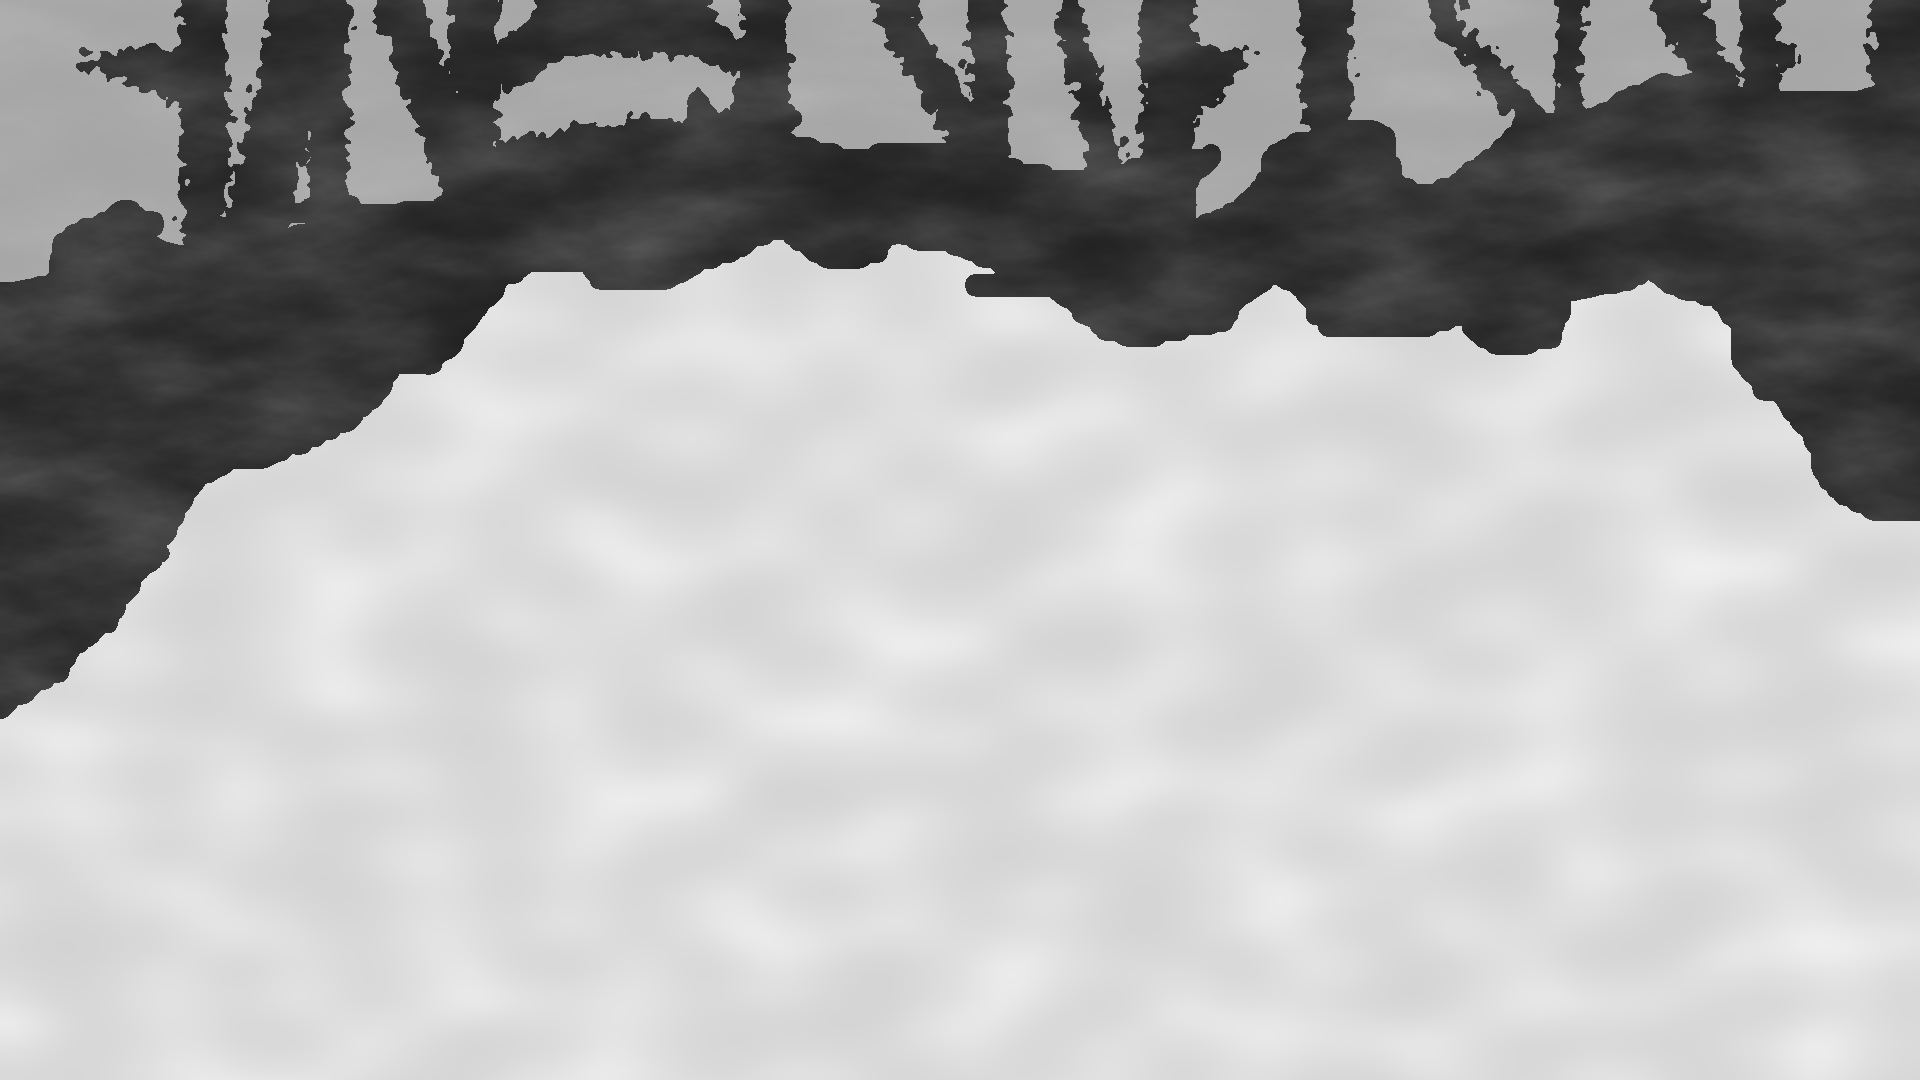
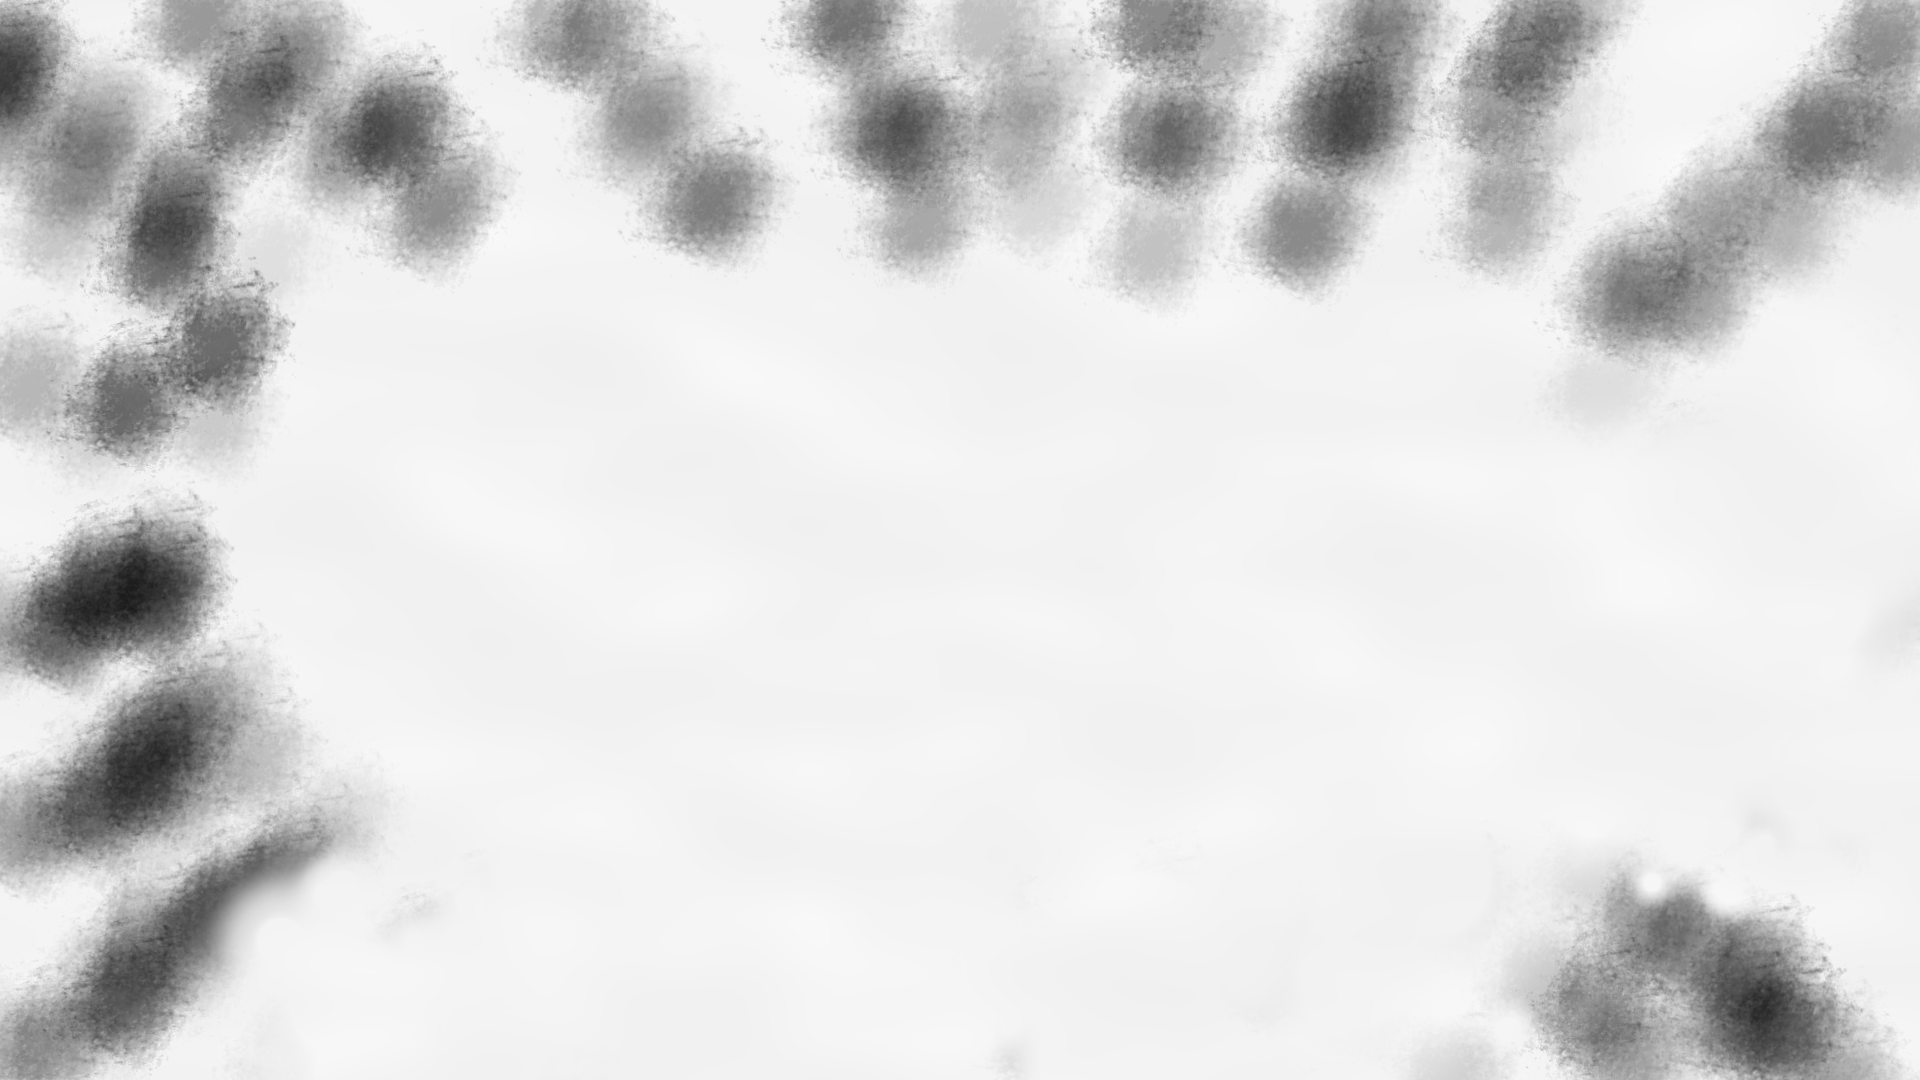
Jill valentine

diff --git a/src/views/jeu/Jillvalentine2.vue b/src/views/jeu/Jillvalentine2.vue
@@ -1,10 +1,44 @@
 <script setup>
 import { inject, ref, provide } from "vue";
 import Poppy from "../Poppy.vue";
+import Pnj from "../Pnj.vue";
 
-const pnjMouvement = inject("pnjMouvement");
-const pnjPos = inject("pnjPos");
-const spriteLink = inject("spriteLink");
+const room0 = inject("room0");
+const room1 = inject("room1");
+const room2 = inject("room2");
+const room3 = inject("room3");
+const room4 = inject("room4");
+const room0SpawnPos = inject("room0SpawnPos");
+const room0SpawnDir = inject("room0SpawnDir");
+room0SpawnPos.value = [0, 5];
+room0SpawnDir.value = "hautbas";
+const bg = ref(
+  `url('${new URL("../../assets/Jeu/jillvalentine/2/bg.png", import.meta.url).href}')`,
+);
+
+const sortie = ref({
+  gauche: { positions: [], link: `` },
+  droite: { positions: [], link: `` },
+  haut: { positions: [], link: `` },
+  bas: {
+    positions: [
+      [5, 2],
+      [5, 3],
+      [5, 4],
+      [5, 5],
+      [5, 6],
+      [5, 7],
+      [5, 8],
+      [5, 9],
+    ],
+    link: `/m2`,
+  },
+});
+
+room0.value = true;
+
+const spritePnj = ref("secte/haut/hautbas.svg");
+
 const peuxBouger = ref(false);
 provide("peuxBouger", peuxBouger);
 
@@ -14,44 +48,73 @@ async function attendre(dure) {
     peuxBouger.value = true;
   }, dure);
 }
+const event1Declanche = ref(false);
+const cligoteurVisible = ref(false);
+
+if (room4.value) {
+  event1Declanche.value = true;
+  bg.value = `url('${new URL("../../assets/Jeu/jillvalentine/2bis/bg.png", import.meta.url).href}')`;
+  spritePnj.value = "secte/mort/pnj4.png";
+  if (room0.value && room1.value && room2.value && room3.value && room4.value) {
+    sortie.value = {
+      gauche: { positions: [], link: `` },
+      droite: {
+        positions: [
+          [1, 11],
+          [2, 11],
+          [3, 11],
+          [4, 11],
+          [5, 11],
+        ],
+        link: `/memento`,
+      },
+      haut: { positions: [], link: `` },
+      bas: { positions: [], link: `` },
+    };
+  }
+}
+
 peuxBouger.value = true;
+
+function event1() {
+  event1Declanche.value = true;
+  attendre(0.8);
+  setTimeout(() => {
+    bg.value = `url('${new URL("../../assets/Jeu/jillvalentine/2bis/bg.png", import.meta.url).href}')`;
+    spritePnj.value = "secte/mort/pnj4.png";
+  }, 100);
+  cligoteurVisible.value = true;
+  setTimeout(() => {
+    cligoteurVisible.value = false;
+  }, 800);
+  room4.value = true;
+  if (room0.value && room1.value && room2.value && room3.value && room4.value) {
+    sortie.value = {
+      gauche: { positions: [], link: `` },
+      droite: {
+        positions: [
+          [1, 11],
+          [2, 11],
+          [3, 11],
+          [4, 11],
+          [5, 11],
+        ],
+        link: `/memento`,
+      },
+      haut: { positions: [], link: `` },
+      bas: { positions: [], link: `` },
+    };
+  }
+}
 </script>
 
 <template>
-  <section>
-    <img src="../../assets/Jeu/jillvalentine/2/fg.png" id="fg" />
+  <section :style="{ backgroundImage: bg }">
     <Poppy
       :spawn="[5, 5]"
-      :sprite-type="2"
-      :sprite-sens="'droite'"
-      :tp="{
-        gauche: {
-          positions: [],
-          link: ``,
-        },
-        droite: {
-          positions: [
-            [1, 11],
-            [2, 11],
-            [3, 11],
-            [4, 11],
-          ],
-          link: `/memento`,
-        },
-        haut: { positions: [], link: `` },
-        bas: {
-          positions: [
-            [5, 4],
-            [5, 5],
-            [5, 6],
-            [5, 7],
-            [5, 8],
-            [5, 9],
-            [5, 10],
-          ],
-          link: `/m2`,
-        },
-      }"
+      :sprite-type="1"
+      :sprite-sens="'hauthaut'"
+      :tp="sortie"
       :interdis="[
         [0, 0],
         [0, 1],
@@ -66,29 +129,80 @@ peuxBouger.value = true;
         [0, 10],
         [0, 11],
         [1, 0],
-        [1, 1],
-        [1, 2],
-        [1, 11],
         [2, 0],
+        [3, 0],
+        [4, 0],
+        [5, 0],
+        [1, 1],
         [2, 1],
+        [3, 1],
+        [4, 1],
+        [5, 1],
+
+        [5, 10],
+        [5, 11],
+
+        [1, 2],
       ]"
     />
+    <Pnj
+      :position="[2, 1]"
+      :sprite="spritePnj"
+      :class="{ clickable: !event1Declanche }"
+      @click="!event1Declanche && event1()"
+    />
+    <Transition name="fade">
+      <h1 v-if="event1Declanche" class="ev-1">
+        Ils fracassent des arabes à Gaza, et ils sont bien contents à Tel Aviv
+      </h1>
+    </Transition>
+    <div v-if="event1Declanche && cligoteurVisible" class="clignoteur"></div>
   </section>
 </template>
 
 <style lang="scss" scoped>
 section {
-  background: no-repeat url("../../assets/Jeu/jillvalentine/2bis/bg.png")
-    center/cover;
+  background: no-repeat center/cover;
   height: 100dvh;
   width: 100dvw;
   position: relative;
   display: flex;
 
-  #fg {
+  :deep(img.clickable) {
+    cursor: pointer;
+  }
+
+  h1 {
+    font-size: 7.5vh;
+    position: absolute;
+    color: whitesmoke;
+    text-shadow: 1px 1px 2px red;
+    top: 10px;
+    text-align: center;
+    left: 50%;
+    translate: -50%;
+    width: 100%;
+  }
+
+  .clignoteur {
+    position: fixed;
     height: 100dvh;
     width: 100dvw;
-    z-index: 100;
+    background-color: #000000;
+    z-index: 1000;
+    animation: clignote linear 0.1s 8;
+  }
+}
+
+@keyframes clignote {
+  0%,
+  49%,
+  100% {
+    visibility: visible;
+  }
+  50%,
+  99% {
+    visibility: hidden;
   }
 }
 </style>

diff --git a/src/style.css b/src/style.css
@@ -5,6 +5,7 @@
 
 * {
     font-family: Chromsky, sans-serif;
+    overflow: hidden;
 }
 
 html, body, #app {
@@ -12,8 +13,4 @@ html, body, #app {
   padding: 0;
   width: 100%;
   height: 100%;
-}
-
-section {
-    overflow: hidden;
 }
